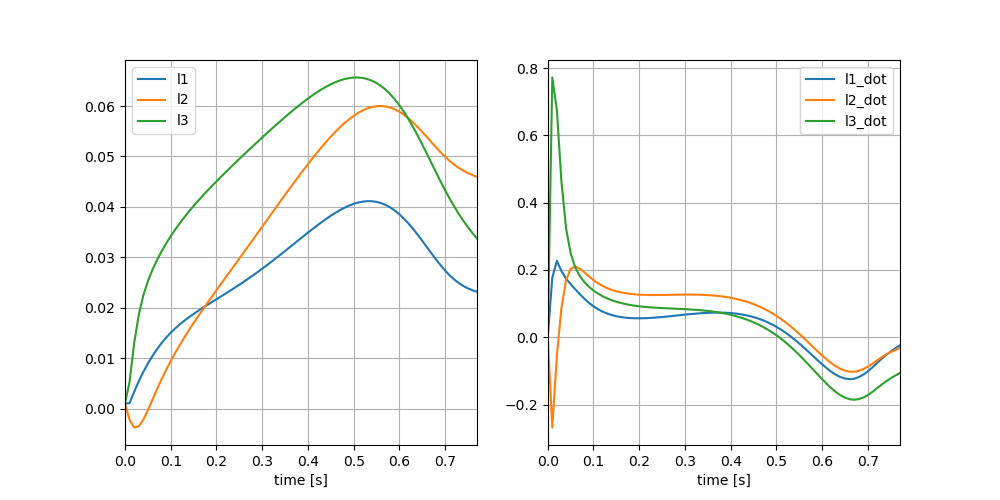
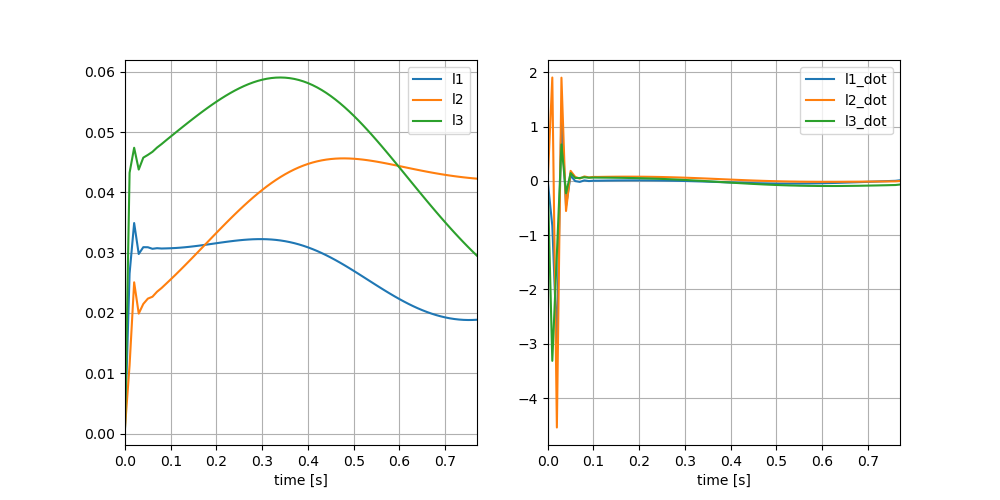
thoth

diff --git a/o/Dynamic_Control_of_Soft_Robotic_Arm_saigen/simulator.py b/o/Dynamic_Control_of_Soft_Robotic_Arm_saigen/simulator.py
@@ -25,7 +25,7 @@ class Simulator:
             self.TIME_INTERVAL = TIME_INTERVAL
         
         self.Kd = 200
-        self.Kp = 10000
+        self.Kp = 1000000
         
         self.kinematics = KinematicsOfOneSection()
         
@@ -67,12 +67,12 @@ class Simulator:
         print("error = ", np.linalg.norm(p - pd))
         z = np.linalg.pinv(J) @ \
             (pd_dot_dot - self.Kd*(p_dot - pd_dot) - self.Kp*(p - pd) - J_dot @ q_dot)
-        #print(z)
+        print(z)
         return z
 
 
     def state_dot(self, t, state):
-        
+        print("t = ", t)
         q = np.array([state[:3]]).T
         q_dot = np.array([state[3:]]).T
         
